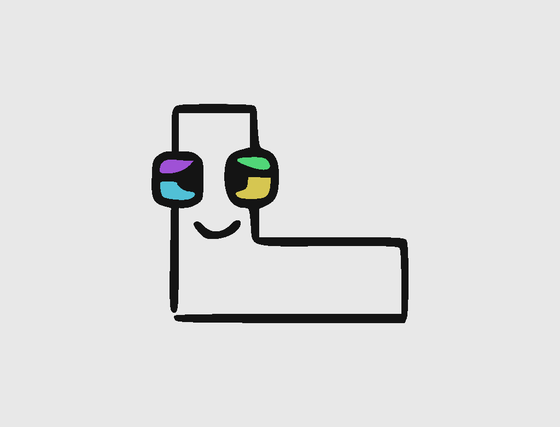
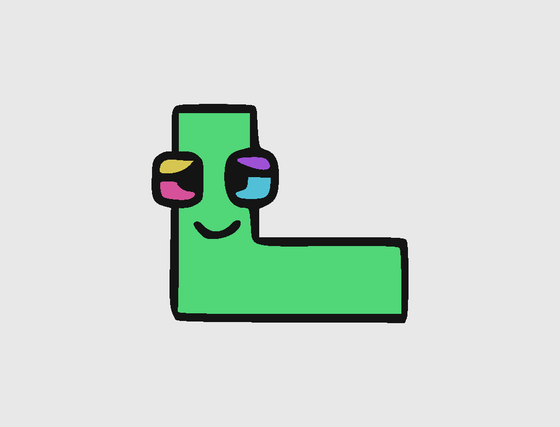
Seal the 1px joint that left a hole in ㄴ's bottom-left corner
The corner where ㄴ's vertical arm meets the bottom bar touches only
diagonally: the raster mask is closed under 8-connectivity, but potrace
reads 4-connectivity, so the 1px neck does not survive curve fitting and
the render shows a hole. That hole was the letter's only paintable region
(0.2% of the canvas) and the bucket leaked through it to the page.

The symptom is the test: only when the letter's own fill reaches the page
does the pipeline act. Then it closes the checkerboard (2x2 with ink on
one diagonal and background on the other) that holds the fill, turning
the two empty cells into ink. That is 2px in ㄴ and nothing else on the
sheet changes; the glyph's body becomes a closed region (9% of the
canvas) and the smallest paintable region across the sheet goes from 0.2%
to 1.9%.

While checking this, the note that "many jamo are open strokes" turned out
to be wrong: all 40 have enclosed regions (4-20 per letter, 1-10
paintable). Korean largest regions are smaller than Latin's (1.9-14.4% vs
12.1-46.7%) because the region is the stroke body, not the letter's
counter. docs/decisoes.md §8.2, §8.3, §8.4 and Pendência 5 corrected, and
the build log no longer repeats the wrong claim.

Changed region(s): [[0.2732, 0.2436, 0.7286, 0.7611]]

diff --git a/docs/decisoes.md b/docs/decisoes.md
@@ -203,6 +203,7 @@ O pipeline nasceu para as 26 latinas, que já vêm em traço preto. Para outras 
 - **Recorte por posse de componente**, não por célula geométrica: cada componente conexo da folha pertence a uma letra; adereços soltos (chapéu, texto "WAND", câmera, latas de spray) são agrupados por vizinhança e o grupo inteiro vai para a letra cuja caixa dilatada em 24 px cobre mais área dele. Célula por ponto médio cortava adereço ao meio (a asa do `ㅂ`, o "W" do "WAND").
 - **Traço = preto neutro**: o contorno é `#000000`/`#010101` e o preenchimento mais escuro começa em `#1a1621`, então **canal máximo ≤ 24** separa os dois com 9 níveis de folga. Pupilas, sobrancelhas e dentes continuam sólidos; corpos escuros (o sol `ㅇ`, `#1a1621`) viram contorno vazado, que é o que a criança pinta.
 - **Objeto desenhado só em cinza não vira traço: ele tapa a borda.** As latas do `ㅛ` não têm linha nenhuma e escondem a borda vertical do corpo, então as hastes da letra terminavam no ar. O pipeline desenha a **borda que faltava**: identifica o objeto exposto (cinza neutro, área ≥ 200 px, **fora** de área fechada por preto), traça uma reta de 5 px no lado voltado para o corpo ligando as duas pontas de traço existentes, e **apara** a sobra arredondada que passava por baixo dele. Cinza cercado por preto é sombra interna (olho do `ㅗ`, lente do `ㅟ`) e continua fora; a franja de antialiasing também.
+- **Junta de 1 px não sobrevive à vetorização.** Onde duas pontas de traço se tocam só na diagonal (o `ㄴ` na quina inferior esquerda), a máscara fica fechada mas o potrace lê 4-conexo e a suavização abre um buraco no render — o miolo vaza e o balde pinta a página. O sintoma é o próprio teste: só quando o miolo alcança a página é que o xadrez 2×2 da junta é preenchido.
 - **Canvas uniforme** de mesma proporção das latinas (309 × 236 ↔ 329 × 251) → o resto do pipeline (`viewBox` compartilhado, 2048 × 1562, `region.png`, `thumb`) roda **sem nenhuma alteração**.
 - **Idioma é argumento**: `node scripts/build-assets.mjs [latin|coreano|all]`. Os artefatos são commitados como os latinos; CI continua sem potrace.
 - O coreano **não está na UI** ainda: `public/coreano/` existe, mas nenhuma tela o carrega. Detalhes e medições na seção 8.
@@ -275,7 +276,7 @@ O pipeline nasceu para as 26 latinas, que já vêm em traço preto. Para outras 
 2. **Paleta de 24 pode ficar apagada.** Os 8 tons extras de alta saturação que eu havia proposto (magenta `#E64980`, ciano `#22D3EE`, roxo vivo `#7048E8`, laranja-neon `#FF922B`, dourado `#FAB005`, rosa-chiclete `#FF8FCF`, marrom `#8B5E34`, cinza-claro `#CED4DA`) foram retirados junto com a mudança de ordem. Reavaliar depois do primeiro teste com a criança.
 3. **Retrato de celular: a letra em 100% continua pequena.** ~~Resolvido~~ **Resolvido por outro caminho (rev. 6).** A arte é paisagem (1,31:1), então a folha em retrato é limitada pela largura: 370 × 282 num iPhone de 390, e no tamanho de encaixe ela não cresce mais. Tentei canvas por letra (ganho medido de 2,75× de área mediana) e **descartei** pelos motivos de D7. A solução adotada foi **pinça/zoom até 4×** (D15), que dá o mesmo "pintar o olho da letra" sem mudar a régua. A folga vertical que sobrou entre a folha e o dock não é mais desperdício: virou faixa das setas no celular. Continua em aberto, se o teste com a criança pedir, **abrir já ampliado no bbox da letra** ao trocar de página (zoom inicial em vez de 1×).
 4. **Letra apagada até o fim conta como "pintada".** O histórico tem comandos de borracha, então `hasPaint()` continua verdadeiro com a tela em branco. Na Etapa 4 isso apareceria na grade como uma miniatura em branco. Decidir lá: salvar só se houver píxel não transparente (checagem barata no momento do save) e, se não houver, apagar o blob.
-5. **Coreano fora da UI.** Os 40 jamo já estão recortados, vetorizados e medidos em `public/coreano/`, mas nenhuma tela os carrega. Antes de ligar: seletor de idioma, lista de letras por idioma e a decisão do balde em traço aberto (seção 8.4).
+5. **Coreano fora da UI.** Os 40 jamo já estão recortados, vetorizados e medidos em `public/coreano/`, mas nenhuma tela os carrega. Antes de ligar: seletor de idioma e lista de letras por idioma.
 
 ---
 
@@ -450,6 +451,8 @@ O resultado preserva pupila, cílios, dentes e sobrancelhas, e transforma corpo 
 
 **A exceção: objeto que tapa a borda.** As latas de spray do `ㅛ` também são só valor — mas, ao contrário da sombra do olho, estão **fora de qualquer área fechada por preto** e escondem a borda vertical do corpo: as duas hastes da letra terminavam no ar e o `ㅛ` ficava aberto nas laterais. O objeto não entra no traço (o contorno gerado ao redor da lata foi rejeitado: poluía o desenho). O que entra é a **borda que faltava**: cinza neutro, com área ≥ 200 px, que seja **exposto** (alcançável da borda da página sem atravessar preto) define onde está a borda; o pipeline acha as pontas de traço existentes numa faixa de 7 px do lado voltado para o corpo, liga as duas com uma reta de 5 px (a espessura do traço da letra na fonte) e **apara** a sobra arredondada que corria por baixo do objeto — sem a apara o canto herdava a ponta antiga e virava um gancho. Cinza **cercado** por preto continua fora: é sombra interna. A franja de antialiasing também (cinza a até 2 px do preto). Na folha inteira o único objeto exposto é o par de latas do `ㅛ`: **344 px de borda desenhada e 116 px de sobra aparada**, e só `public/coreano/yo/**` muda. O corpo passa a ser uma região fechada do balde (6,7% do canvas), que antes vazava pela lateral.
 
+**A outra correção: fresta de 1 px na junta.** O traço é desenhado à mão e em alguns cantos as duas pontas se tocam **só na diagonal** — no `ㄴ`, a quina inferior esquerda. A máscara fica fechada em 8-conexidade, mas o potrace lê 4-conexo: um pescoço de 1 px não sobrevive à suavização e o render abre um buraco, por onde o balde vazava (a maior região pintável da letra era 0,2% do canvas). O sintoma que identifica o defeito é o **miolo da letra alcançar a página**; só nesse caso o pipeline fecha o **xadrez** (bloco 2×2 com tinta na diagonal e fundo na outra) que segura o miolo, virando as duas casas vazias em tinta. São **2 px no `ㄴ`**, o resto da folha não muda, e a maior região da letra passou a 9% do canvas.
+
 Recortes coloridos para conferência em `_qa/coreano/conferencia.png`; traço final em `_qa/coreano/prancha.png`.
 
 ### 8.3 Medições
@@ -462,14 +465,15 @@ Recortes coloridos para conferência em `_qa/coreano/conferencia.png`; traço fi
 | tinta renderizada | **2048 × 1254** (fator 6,67×), centrada em 2048 × 1562 |
 | peso de `public/coreano/` | **2,30 MB** (40 letras, 4 arquivos cada; média 59 KB) |
 | paths por letra | 1 a 12 (mediana 2) |
-| regiões por letra | 4 a 20 |
+| regiões por letra | 4 a 20 (1 a 10 pintáveis, isto é, que não encostam na borda) |
+| maior região pintável | **1,9% a 14,4%** do canvas (a menor era 0,2% no `ㄴ` antes de fechar a fresta da quina) |
 | traço extraído × original | 0,000% de tinta perdida no recorte; olhos e dentes preservados |
 | objetos em cinza (sem contorno) | latas do `ㅛ`: a letra é fechada com uma reta no lugar da borda que a lata escondia (344 px desenhados, 116 px de sobra aparada); brilho da lente do `ㅟ` fica fora por ser sombra interna |
 
 ### 8.4 O que muda quando o coreano entrar na UI
 
 1. **A arte coreana é mais larga.** Como o bbox é justo (união do traço), 307 × 188 = 1,63:1, contra 1,31:1 das latinas. Na mesma canvas de 2048 × 1562 a tinta ocupa 80% da altura — as letras ficam ~20% menores que as latinas. Inevitável sem canvas por idioma (D7 continua valendo para o app). Se incomodar no teste, o caminho é o mesmo de D7: canvas por **idioma**, não por letra.
-2. **Muitos jamo não têm região fechada.** `ㄴ`, `ㄱ`, `ㅏ` são traço aberto: o "dentro" é o fundo da página, então o balde nesses casos pinta a página inteira (a heurística latina "maior% < 8" lista **28 de 40** e não vale aqui). Antes de ligar o balde no coreano, decidir: desabilitar o balde quando a região é a externa, ou desenhar um "fecho invisível" no `region.png`.
+2. **O balde pinta o corpo da letra, como nas latinas.** Todo jamo tem região interna: são **4 a 20 regiões por letra**, das quais **1 a 10 são pintáveis** (não encostam na borda da página), e o corpo da letra é uma região fechada em todos os 40. O que muda é o **tamanho**: a maior região vai de **1,9% a 14,4%** do canvas, contra **12,1% a 46,7%** nas latinas. Não é traço aberto — nas latinas a maior região é o *contador* da letra (o buraco do `A`, do `O`), enquanto no jamo é o **corpo do traço**, uma faixa fina e comprida. Por isso a heurística latina "maior% < 8" marca 27 de 40 sem indicar defeito: ela mede tamanho, não abertura. O único jamo que realmente vazava era o `ㄴ`, por uma fresta de 1 px na quina (ver §8.2), já corrigida — a menor região pintável subiu de 0,2% para 1,9%.
 3. **Seletor de idioma e roteamento** (`/lore-coloring/` + `?lang=ko` ou caminho) e a lista de letras em `data/letters.ts` passando a ser por idioma — nada disso existe ainda.
 
 ### 8.5 Como regerar
